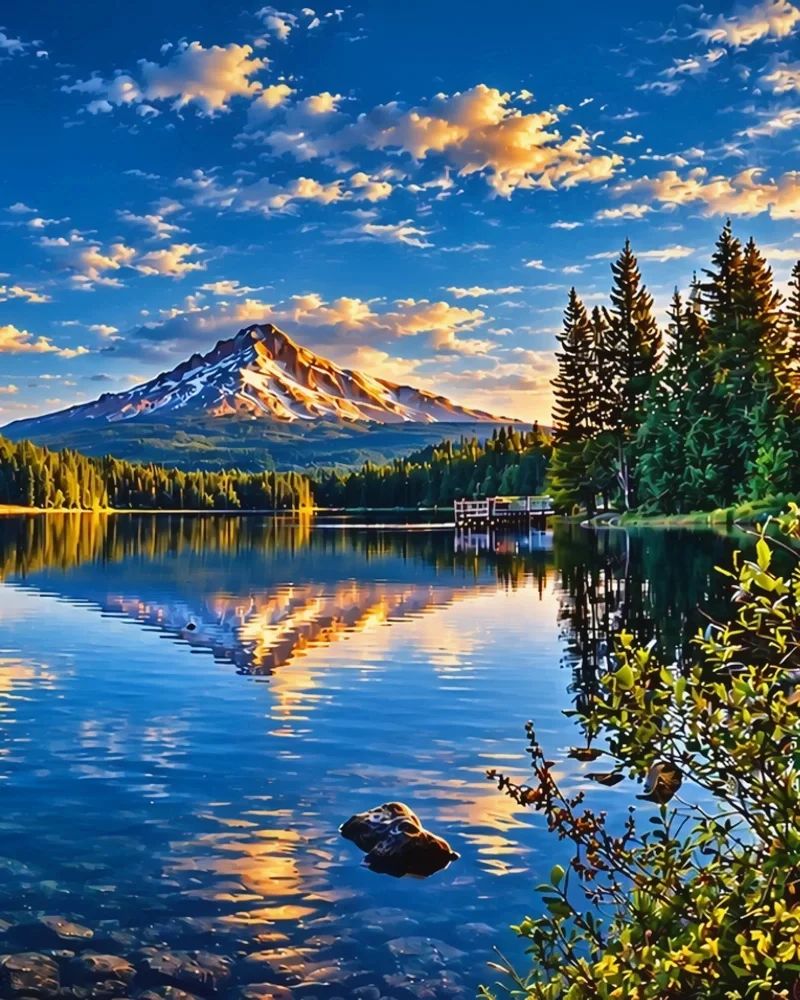
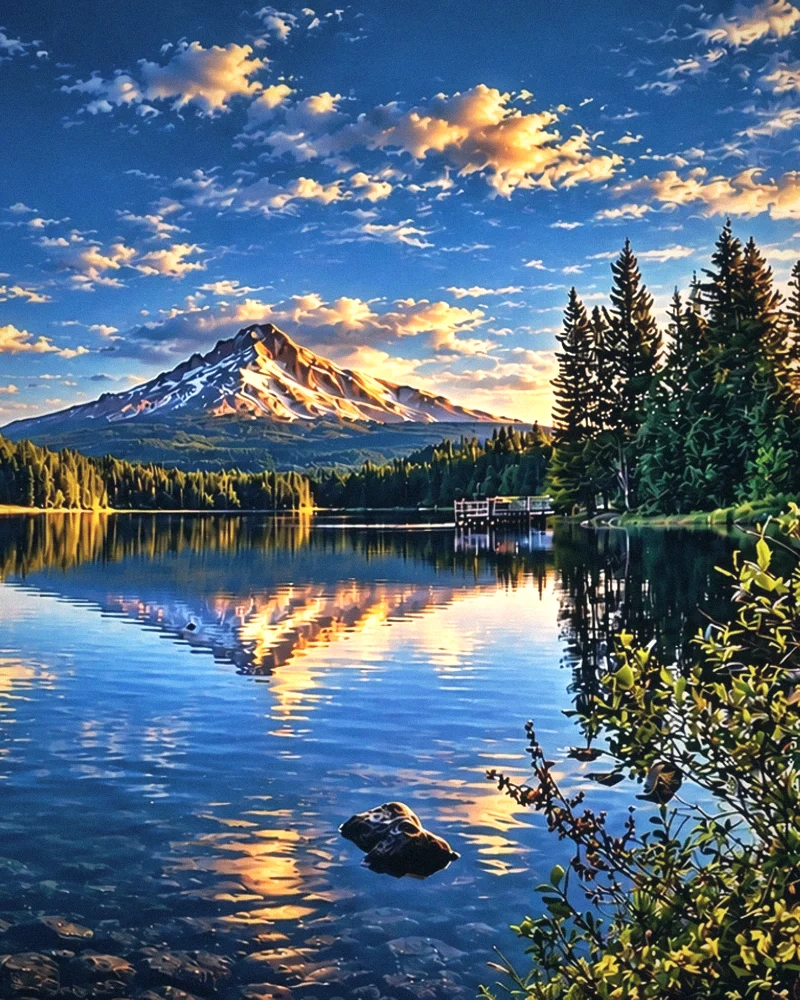
Blended art: cinematic grade (filmic curve, split tone, grain, halation), calmer base saturation

diff --git a/client/public/outzide-map/assets/blend-art.js b/client/public/outzide-map/assets/blend-art.js
@@ -28,7 +28,7 @@ const copier=(id,sat,curve)=>`<filter id="${id}" x="0" y="0" width="100%" height
 <feComposite in="blk" in2="c" operator="over" result="a"/><feComposite in="stk" in2="a" operator="over" result="d"/>
 <feComposite in="d" in2="SourceGraphic" operator="in"/></filter>`;
 let blDefs=null;const ensureDefs=()=>{if(blDefs&&blDefs.isConnected)return blDefs;let el=document.getElementById('bl-defs');if(!el){const sv=document.createElementNS('http://www.w3.org/2000/svg','svg');sv.setAttribute('width','0');sv.setAttribute('height','0');sv.style.position='absolute';sv.setAttribute('aria-hidden','true');el=document.createElementNS('http://www.w3.org/2000/svg','defs');el.id='bl-defs';sv.appendChild(el);document.body.appendChild(sv);el.innerHTML=DEFS_HTML}return blDefs=el};
-const DEFS_HTML=screenFilter('xdots',3,'dot',1.4,.86,.12)+screenFilter('xpop',4,'hatch',1.8,.12,.05)+'<filter id="xpopcool" x="0" y="0" width="100%" height="100%" color-interpolation-filters="sRGB"><feColorMatrix in="SourceGraphic" type="matrix" values=".2126 .7152 .0722 0 0 .2126 .7152 .0722 0 0 .2126 .7152 .0722 0 0 0 0 0 1 0" result="lum"/><feTurbulence type="fractalNoise" baseFrequency=".011 .018" numOctaves="3" seed="7" result="nz"/><feColorMatrix in="nz" type="matrix" values="1 0 0 0 0 1 0 0 0 0 1 0 0 0 0 0 0 0 0 1" result="nzg"/><feComposite in="lum" in2="nzg" operator="arithmetic" k1="0" k2="1" k3=".3" k4="-.15" result="mix"/><feComponentTransfer in="mix" result="post"><feFuncR type="discrete" tableValues=".02 .06 .16 .75 .94"/><feFuncG type="discrete" tableValues=".03 .30 .54 .89 .91"/><feFuncB type="discrete" tableValues=".04 .36 .65 .93 .86"/></feComponentTransfer><feTurbulence type="fractalNoise" baseFrequency=".9" numOctaves="1" seed="11" result="sp"/><feColorMatrix in="sp" type="matrix" values="0 0 0 0 1 0 0 0 0 1 0 0 0 0 1 9 0 0 0 -7.4" result="spk"/><feComposite in="spk" in2="post" operator="over" result="d"/><feComposite in="d" in2="SourceGraphic" operator="in"/></filter>'+
+const DEFS_HTML=screenFilter('xdots',3,'dot',.9,.86,.1)+screenFilter('xpop',4,'hatch',1.8,.12,.05)+'<filter id="xpopcool" x="0" y="0" width="100%" height="100%" color-interpolation-filters="sRGB"><feColorMatrix in="SourceGraphic" type="matrix" values=".2126 .7152 .0722 0 0 .2126 .7152 .0722 0 0 .2126 .7152 .0722 0 0 0 0 0 1 0" result="lum"/><feTurbulence type="fractalNoise" baseFrequency=".011 .018" numOctaves="3" seed="7" result="nz"/><feColorMatrix in="nz" type="matrix" values="1 0 0 0 0 1 0 0 0 0 1 0 0 0 0 0 0 0 0 1" result="nzg"/><feComposite in="lum" in2="nzg" operator="arithmetic" k1="0" k2="1" k3=".3" k4="-.15" result="mix"/><feComponentTransfer in="mix" result="post"><feFuncR type="discrete" tableValues=".02 .06 .16 .75 .94"/><feFuncG type="discrete" tableValues=".03 .30 .54 .89 .91"/><feFuncB type="discrete" tableValues=".04 .36 .65 .93 .86"/></feComponentTransfer><feTurbulence type="fractalNoise" baseFrequency=".9" numOctaves="1" seed="11" result="sp"/><feColorMatrix in="sp" type="matrix" values="0 0 0 0 1 0 0 0 0 1 0 0 0 0 1 9 0 0 0 -7.4" result="spk"/><feComposite in="spk" in2="post" operator="over" result="d"/><feComposite in="d" in2="SourceGraphic" operator="in"/></filter>'+
  '<filter id="xzor" x="0" y="0" width="100%" height="100%" color-interpolation-filters="sRGB"><feColorMatrix in="SourceGraphic" type="matrix" values=".2126 .7152 .0722 0 0 .2126 .7152 .0722 0 0 .2126 .7152 .0722 0 0 0 0 0 1 0" result="lum"/><feTurbulence type="fractalNoise" baseFrequency=".02" numOctaves="2" seed="3" result="nz"/><feColorMatrix in="nz" type="matrix" values="1 0 0 0 0 1 0 0 0 0 1 0 0 0 0 0 0 0 0 1" result="nzg"/><feComposite in="lum" in2="nzg" operator="arithmetic" k1="0" k2="1" k3=".18" k4="-.09" result="mix"/><feComponentTransfer in="mix" result="tri"><feFuncR type="discrete" tableValues="0 1 1"/><feFuncG type="discrete" tableValues="0 .4 1"/><feFuncB type="discrete" tableValues="0 0 1"/></feComponentTransfer><feComposite in="tri" in2="SourceGraphic" operator="in"/></filter>'+copier('xcopyBW',0,'0 .02 .1 .42 .92 1 1')+copier('xcopyLC',.4,'0 .02 .16 .52 .9 1 1')+copier('xcopyCOL',.95,'0 .03 .2 .52 .88 1 1')+
  '<filter id="xglow" x="-10%" y="-10%" width="120%" height="120%"><feGaussianBlur in="SourceGraphic" stdDeviation="2.2" result="h"/><feGaussianBlur in="SourceGraphic" stdDeviation="10" result="b"/><feComponentTransfer in="b" result="b2"><feFuncA type="linear" slope=".4"/></feComponentTransfer><feMerge><feMergeNode in="b2"/><feMergeNode in="h"/><feMergeNode in="SourceGraphic"/></feMerge></filter>';
 

diff --git a/client/src/components/outz/OutzBlendArt.tsx b/client/src/components/outz/OutzBlendArt.tsx
@@ -6,11 +6,11 @@ let engine:Promise<BlendModule>|undefined;
 let styles=false;
 /** The blend engine is a plain ES module shared with the Outzide map, loaded like the photo motion script so both draw the same art. */
 function loadEngine(){
- if(!styles){styles=true;const link=document.createElement('link');link.rel='stylesheet';link.href='/outzide-map/assets/blend-art.css?v=20261024-vivid';document.head.append(link);}
+ if(!styles){styles=true;const link=document.createElement('link');link.rel='stylesheet';link.href='/outzide-map/assets/blend-art.css?v=20261024-film';document.head.append(link);}
  return engine??=new Promise<BlendModule>((resolve,reject)=>{
   const scope=window as Window&{__outzBlendArt?:BlendModule};
   if(scope.__outzBlendArt){resolve(scope.__outzBlendArt);return;}
-  const script=document.createElement('script');script.type='module';script.src='/outzide-map/assets/blend-art.js?v=20261024-vivid';
+  const script=document.createElement('script');script.type='module';script.src='/outzide-map/assets/blend-art.js?v=20261024-film';
   script.onload=()=>scope.__outzBlendArt?resolve(scope.__outzBlendArt):reject(new Error('Blend art unavailable'));
   script.onerror=()=>reject(new Error('Blend art unavailable'));document.head.append(script);
  });

diff --git a/client/public/outzide-map/assets/destination-photos.js b/client/public/outzide-map/assets/destination-photos.js
@@ -38,7 +38,7 @@ export function createPhotoMotion(scope=globalThis){
 
 // Blended art: the engine mounts into the marked photo span and the layered photo hides behind it. Falls back to the photo if it cannot load.
 const blendOff=new Set();let blendEngine;
-const loadBlend=()=>blendEngine??=import('./blend-art.js?v=20261024-vivid');
+const loadBlend=()=>blendEngine??=import('./blend-art.js?v=20261024-film');
 export function enhanceBlend(root=document){
  for(const entry of [...blendOff])if(!entry.el.isConnected){entry.off?.();blendOff.delete(entry);}
  root.querySelectorAll('.outz-photo[data-blend-place]:not([data-blend-ready])').forEach(el=>{

diff --git a/client/public/outzide-map/index.html b/client/public/outzide-map/index.html
@@ -26,7 +26,7 @@
 <link rel="stylesheet" href="assets/browse-sheet.css?v=20261014-redesign">
 <link rel="stylesheet" href="assets/library-motifs.css?v=20261016-library">
 <link rel="stylesheet" href="assets/destination-photos.css?v=20261024-wide">
-<link rel="stylesheet" href="assets/blend-art.css?v=20261024-vivid"><link rel="stylesheet" href="assets/outz-demo.css?v=20261024-alt">
+<link rel="stylesheet" href="assets/blend-art.css?v=20261024-film"><link rel="stylesheet" href="assets/outz-demo.css?v=20261024-alt">
 </head>
 <body class="outzide-shell" data-map="outzide" data-drawer="closed">
 <div class="oz-top">
